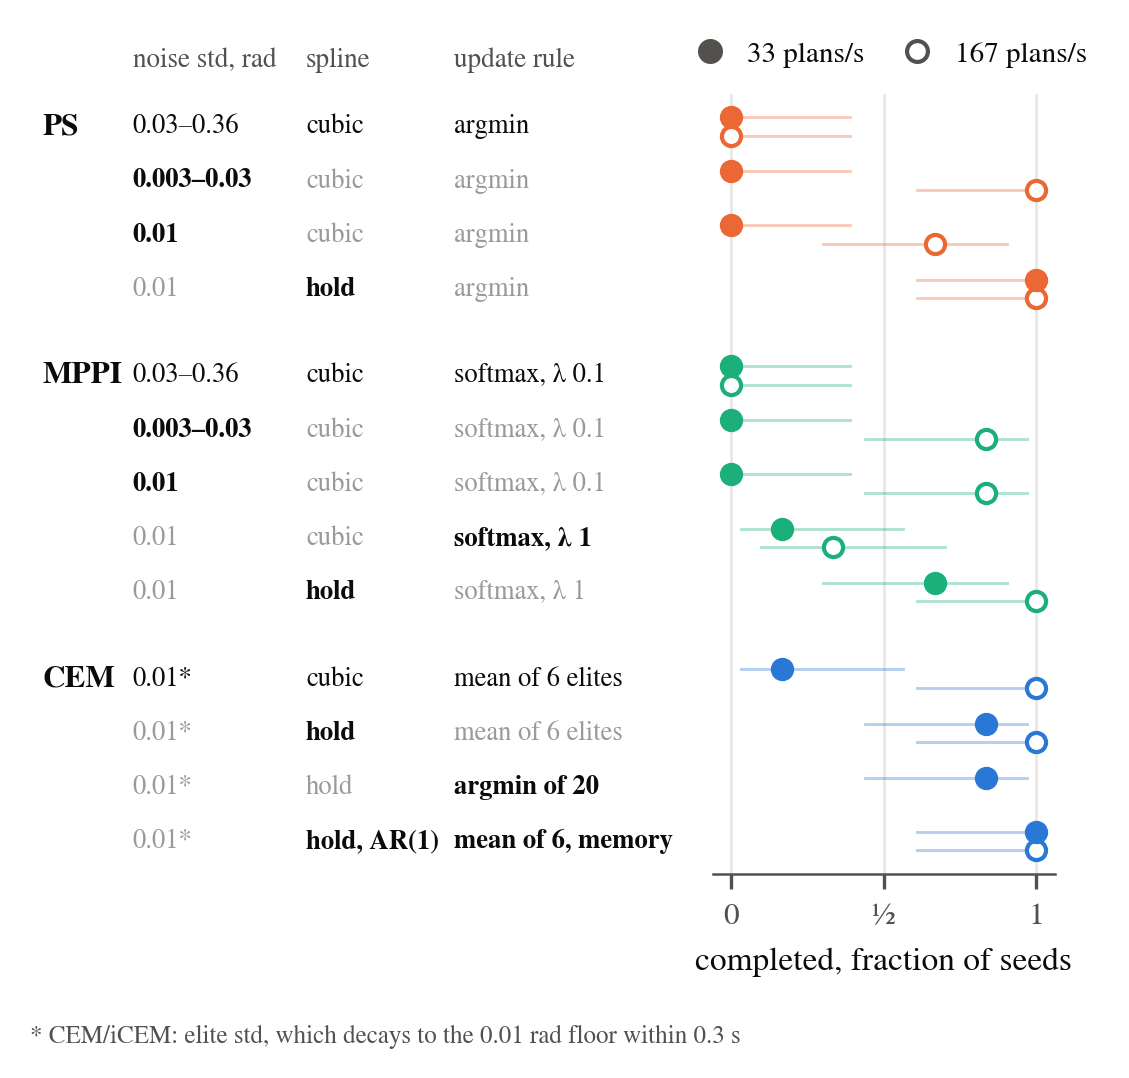
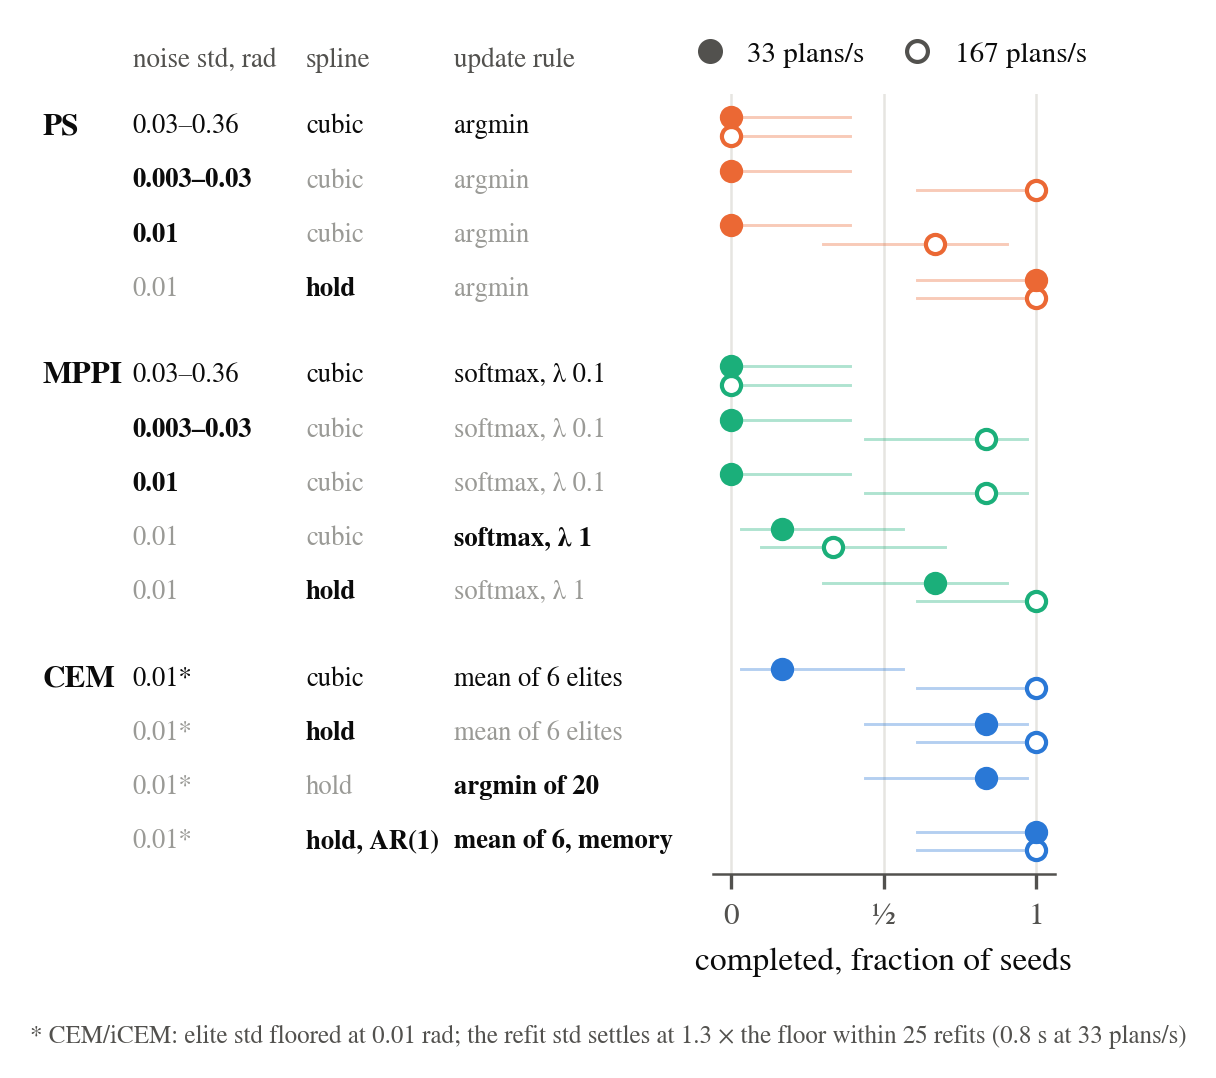
planner ablation: measure CEM's refit elite std against the floor (1.3x, 25 refits), correct the 0.3 s statements
cem_std_mean (pre-floor refit std) sits at 1.25-1.40x std_min for every floor
0.005-0.05 and every rate 33-167 plans/s after a ~25-refit transient; iCEM's
AR(1) cold start puts it at 0.8x so the floor binds everywhere. Page, paper
caption, fig_ladder footnote and HANDOFF 2k updated.

diff --git a/docs/lean/20260911-planner_ablation.html b/docs/lean/20260911-planner_ablation.html
@@ -32,7 +32,7 @@ figure.vid{margin:0}figure.vid video{width:100%;display:block;background:#000;bo
 <li><b>Spline.</b> With a zero-order hold, which CEM and iCEM hard-code, predictive sampling at 0.01 rad completes 6/6 and MPPI 4–6/6. With the cubic spline MJPC's sampling planner ships with, CEM itself drops to 1/6. iCEM completes with either (6/6 and 6/6) because its AR(1) knot noise does what the hold does: it keeps the sampled perturbation of the executed action applied for the first 0.2 s of the rollout, which at 33 plans/s is what selection needs (Figure 4).</li>
 <li><b>Update rule.</b> At the hold and 0.01 rad every rule completes: argmin 6/6, softmax 4/6 (λ = 1, two stalls in the stand-back rungs) to 6/6 (λ = 0.1), elite mean 5/6 (k = 6) to 6/6 (k = 2). The rule matters for sensitivity, not for whether the task can be done.</li>
 </ul>
-<figure class=paper><img src="media/planner_ablation/fig_ladder.png" alt="fig_ladder.png"><figcaption>Figure 1. One row per configuration, from the shipped predictive sampling and MPPI to iCEM; in each row the component that changed from the row above is set in ink. Completion at 33 plans/s (filled) and 167 plans/s (hollow), Wilson 95 % intervals, 6 seeds. σ = 0.01* for CEM and iCEM is the elite standard deviation, which decays to the 0.01 rad floor within 0.3 s.</figcaption></figure>
+<figure class=paper><img src="media/planner_ablation/fig_ladder.png" alt="fig_ladder.png"><figcaption>Figure 1. One row per configuration, from the shipped predictive sampling and MPPI to iCEM; in each row the component that changed from the row above is set in ink. Completion at 33 plans/s (filled) and 167 plans/s (hollow), Wilson 95 % intervals, 6 seeds. σ = 0.01* for CEM and iCEM is the elite standard deviation floored at 0.01 rad; the refit std settles at 1.3 × the floor within 25 refits (0.8 s at 33 plans/s).</figcaption></figure>
 <p>Sensitivity is where CEM separates from the others. At 33 plans/s its admissible range of sampling std (cells at ≥ 4/6) spans the full tested decade, 0.005–0.05 rad, while predictive sampling with the hold and MPPI with the hold are admissible only at 0.01–0.02 rad; at 50 plans/s predictive sampling widens to 0.005–0.03 and MPPI to 0.005–0.01, at 167 plans/s both reach 0.005–0.03 and CEM's range is 0.005–0.03 (0.05 rad is 3/6 there); at 25 plans/s, below the robot's rate, CEM holds 0.01–0.03, predictive sampling 0.01–0.02 and MPPI 0.01–0.02, and 0.005 rad fails for every rule. Any elite count that selects works (k = 1, 2, 6, 10 at 5–6/6); k = 20, the mean of all samples, completes 0/6. Eight rollouts instead of twenty cost CEM three completions (2/6) and predictive sampling four (2/6); MPPI at 8 rollouts is unchanged (4/6).</p>
 <figure class=paper><img src="media/planner_ablation/fig_basin.png" alt="fig_basin.png"><figcaption>Figure 2. Completion over sampling std × plan rate for each update rule at the hold spline, 6 seeds per cell; below, CEM's elite count, MPPI's temperature, and the rollout count at 33 plans/s. Outlined cells are at ≥ 4/6. The cubic-spline predictive sampling, not shown, is admissible in 5 of the 15 cells at 33–167 plans/s and in none at 25.</figcaption></figure>
 <p>The basin widens with the plan rate for every rule and is widest for the elite mean at every rate: over the twenty σ × rate cells (five σ at 25, 33, 50 and 167 plans/s, 6 seeds each), CEM is admissible in 16, predictive sampling with the hold in 12, MPPI with the hold in 10, and predictive sampling with its shipped cubic spline in 5. At 167 plans/s every update rule at 0.01 rad completes 6/6 with the hold and the cubic spline recovers to 4–6/6, so the components that matter at the robot's rate stop mattering at five times the rate; the noise scale matters at every rate (shipped predictive sampling and MPPI 0/6 at 167 plans/s as at 33, and 0.05 rad admissible for no rule but CEM at any rate). Below the robot's rate the floor is close: at 0.01 rad the hold arms complete 1–5/6 at 25 plans/s and 0–1/6 at 16.7, always by the backward fall at the lean onset, and a larger noise floor, which only the elite mean can afford, moves the floor down — CEM at 0.02 rad completes 5/6 at 16.7 plans/s and iCEM at 0.03 rad 4/6 at 10 plans/s (§Plan rate). Uncompensated plan latency up to 100 ms costs nothing at 33 plans/s; 200 ms does.</p>
@@ -70,7 +70,7 @@ figure.vid{margin:0}figure.vid video{width:100%;display:block;background:#000;bo
 
 <h2>The three components</h2>
 <h3>Noise units</h3>
-<p>Predictive sampling and MPPI draw per-knot noise with std <code>sampling_exploration × ½ ctrlrange</code>; at the shipped 0.12 that is 0.03 rad on the wrists and 0.36 rad on the hip pitch (median 0.21 rad across the 27 joints). CEM and iCEM draw with std max(elite std, <code>std_min</code> = 0.01) in radians, and the elite std reaches the floor within 0.3 s (log-variance drift −0.21 per refit at k = 6). The shipped predictive sampling moves the executed targets 70–130 mrad per plan during quiet standing and its plant cost is 600–3500 against 5–9 for every working arm; the robot is on the slab by 10–45 s. Turning <code>sampling_exploration</code> down to 0.01 (0.003–0.03 rad per joint, still the range-scaled convention) does not rescue either planner at 33 plans/s (0/6 and 0/6).</p>
+<p>Predictive sampling and MPPI draw per-knot noise with std <code>sampling_exploration × ½ ctrlrange</code>; at the shipped 0.12 that is 0.03 rad on the wrists and 0.36 rad on the hip pitch (median 0.21 rad across the 27 joints). CEM and iCEM draw with std max(elite std, <code>std_min</code> = 0.01) in radians. The elite std is refit every plan from the 6 elites, so it is adaptive in principle; measured before the floor is applied (the bench's <code>cem_std_mean</code> column, every plan of every run), it falls from the 0.12 initial value to under twice the floor within about 25 refits (0.77 s at 33 plans/s, 0.15 s at 167) and then sits at 1.3 × the floor for the rest of the run: median 1.34 ×, p99 1.8 ×, maximum over 40 s 2.0 ×, with no rise at lean onset, release or stand-back (2 s bin means 0.012–0.015 rad throughout). The ratio is the same at every floor (1.40, 1.34, 1.29, 1.28, 1.25 × for <code>std_min</code> 0.005, 0.01, 0.02, 0.03, 0.05) and every plan rate (1.32–1.34 × at 33–167 plans/s). Six unselected draws passed through the same floor would settle at 1.68 × (simulated), so cost selection tightens the elites by about 20 % and the floor sets the rest. The σ axis for CEM in Figures 2 and 3 is therefore <code>std_min</code>, and the sampled σ is 1.3 × the label. iCEM's AR(1) noise under-fills the early knots (0.71, 0.87, 0.94 σ at α = 0.7), its refit std sits at 0.8 × the floor, and the floor binds on every parameter; with white noise (α = 0) it sits at 1.22 × like CEM. With k = 20 (no selection) the refit std wanders to 1.9 × the floor and above 2 × on 47 % of plans, and the arm completes 0/6. The shipped predictive sampling moves the executed targets 70–130 mrad per plan during quiet standing and its plant cost is 600–3500 against 5–9 for every working arm; the robot is on the slab by 10–45 s. Turning <code>sampling_exploration</code> down to 0.01 (0.003–0.03 rad per joint, still the range-scaled convention) does not rescue either planner at 33 plans/s (0/6 and 0/6).</p>
 <div class=scroll><table>
 <caption>Table 2. From the shipped predictive sampling and MPPI to their working versions, 33 plans/s, 6 seeds. raw = std in radians; scaled01 = the shipped convention with exploration 0.01; zero/cubic = spline; l = MPPI temperature.</caption>
 <tr><th>arm</th><th>planner and overrides</th><th>n</th><th>completed</th><th>fell</th><th>collapsed</th><th>stalled</th><th>furthest rung, per seed</th><th>t<sub>complete</sub> median, s</th><th>stand step, mrad / plan</th><th>stand cost</th><th>peak brace, N</th><th>min reach err, mm</th></tr>

diff --git a/studies/planner_ablation/page_body.html b/studies/planner_ablation/page_body.html
@@ -8,7 +8,7 @@
 <li><b>Spline.</b> With a zero-order hold, which CEM and iCEM hard-code, predictive sampling at 0.01 rad completes 6/6 and MPPI 4–6/6. With the cubic spline MJPC's sampling planner ships with, CEM itself drops to 1/6. iCEM completes with either (6/6 and 6/6) because its AR(1) knot noise does what the hold does: it keeps the sampled perturbation of the executed action applied for the first 0.2 s of the rollout, which at 33 plans/s is what selection needs (Figure 4).</li>
 <li><b>Update rule.</b> At the hold and 0.01 rad every rule completes: argmin 6/6, softmax 4/6 (λ = 1, two stalls in the stand-back rungs) to 6/6 (λ = 0.1), elite mean 5/6 (k = 6) to 6/6 (k = 2). The rule matters for sensitivity, not for whether the task can be done.</li>
 </ul>
-{{PFIG:fig_ladder.png|Figure 1. One row per configuration, from the shipped predictive sampling and MPPI to iCEM; in each row the component that changed from the row above is set in ink. Completion at 33 plans/s (filled) and 167 plans/s (hollow), Wilson 95 % intervals, 6 seeds. σ = 0.01* for CEM and iCEM is the elite standard deviation, which decays to the 0.01 rad floor within 0.3 s.}}
+{{PFIG:fig_ladder.png|Figure 1. One row per configuration, from the shipped predictive sampling and MPPI to iCEM; in each row the component that changed from the row above is set in ink. Completion at 33 plans/s (filled) and 167 plans/s (hollow), Wilson 95 % intervals, 6 seeds. σ = 0.01* for CEM and iCEM is the elite standard deviation floored at 0.01 rad; the refit std settles at 1.3 × the floor within 25 refits (0.8 s at 33 plans/s).}}
 <p>Sensitivity is where CEM separates from the others. At 33 plans/s its admissible range of sampling std (cells at ≥ 4/6) spans the full tested decade, 0.005–0.05 rad, while predictive sampling with the hold and MPPI with the hold are admissible only at 0.01–0.02 rad; at 50 plans/s predictive sampling widens to 0.005–0.03 and MPPI to 0.005–0.01, at 167 plans/s both reach 0.005–0.03 and CEM's range is 0.005–0.03 (0.05 rad is 3/6 there); at 25 plans/s, below the robot's rate, CEM holds 0.01–0.03, predictive sampling 0.01–0.02 and MPPI 0.01–0.02, and 0.005 rad fails for every rule. Any elite count that selects works (k = 1, 2, 6, 10 at 5–6/6); k = 20, the mean of all samples, completes 0/6. Eight rollouts instead of twenty cost CEM three completions (2/6) and predictive sampling four (2/6); MPPI at 8 rollouts is unchanged (4/6).</p>
 {{PFIG:fig_basin.png|Figure 2. Completion over sampling std × plan rate for each update rule at the hold spline, 6 seeds per cell; below, CEM's elite count, MPPI's temperature, and the rollout count at 33 plans/s. Outlined cells are at ≥ 4/6. The cubic-spline predictive sampling, not shown, is admissible in 5 of the 15 cells at 33–167 plans/s and in none at 25.}}
 <p>The basin widens with the plan rate for every rule and is widest for the elite mean at every rate: over the twenty σ × rate cells (five σ at 25, 33, 50 and 167 plans/s, 6 seeds each), CEM is admissible in 16, predictive sampling with the hold in 12, MPPI with the hold in 10, and predictive sampling with its shipped cubic spline in 5. At 167 plans/s every update rule at 0.01 rad completes 6/6 with the hold and the cubic spline recovers to 4–6/6, so the components that matter at the robot's rate stop mattering at five times the rate; the noise scale matters at every rate (shipped predictive sampling and MPPI 0/6 at 167 plans/s as at 33, and 0.05 rad admissible for no rule but CEM at any rate). Below the robot's rate the floor is close: at 0.01 rad the hold arms complete 1–5/6 at 25 plans/s and 0–1/6 at 16.7, always by the backward fall at the lean onset, and a larger noise floor, which only the elite mean can afford, moves the floor down — CEM at 0.02 rad completes 5/6 at 16.7 plans/s and iCEM at 0.03 rad 4/6 at 10 plans/s (§Plan rate). Uncompensated plan latency up to 100 ms costs nothing at 33 plans/s; 200 ms does.</p>
@@ -46,7 +46,7 @@
 
 <h2>The three components</h2>
 <h3>Noise units</h3>
-<p>Predictive sampling and MPPI draw per-knot noise with std <code>sampling_exploration × ½ ctrlrange</code>; at the shipped 0.12 that is 0.03 rad on the wrists and 0.36 rad on the hip pitch (median 0.21 rad across the 27 joints). CEM and iCEM draw with std max(elite std, <code>std_min</code> = 0.01) in radians, and the elite std reaches the floor within 0.3 s (log-variance drift −0.21 per refit at k = 6). The shipped predictive sampling moves the executed targets 70–130 mrad per plan during quiet standing and its plant cost is 600–3500 against 5–9 for every working arm; the robot is on the slab by 10–45 s. Turning <code>sampling_exploration</code> down to 0.01 (0.003–0.03 rad per joint, still the range-scaled convention) does not rescue either planner at 33 plans/s (0/6 and 0/6).</p>
+<p>Predictive sampling and MPPI draw per-knot noise with std <code>sampling_exploration × ½ ctrlrange</code>; at the shipped 0.12 that is 0.03 rad on the wrists and 0.36 rad on the hip pitch (median 0.21 rad across the 27 joints). CEM and iCEM draw with std max(elite std, <code>std_min</code> = 0.01) in radians. The elite std is refit every plan from the 6 elites, so it is adaptive in principle; measured before the floor is applied (the bench's <code>cem_std_mean</code> column, every plan of every run), it falls from the 0.12 initial value to under twice the floor within about 25 refits (0.77 s at 33 plans/s, 0.15 s at 167) and then sits at 1.3 × the floor for the rest of the run: median 1.34 ×, p99 1.8 ×, maximum over 40 s 2.0 ×, with no rise at lean onset, release or stand-back (2 s bin means 0.012–0.015 rad throughout). The ratio is the same at every floor (1.40, 1.34, 1.29, 1.28, 1.25 × for <code>std_min</code> 0.005, 0.01, 0.02, 0.03, 0.05) and every plan rate (1.32–1.34 × at 33–167 plans/s). Six unselected draws passed through the same floor would settle at 1.68 × (simulated), so cost selection tightens the elites by about 20 % and the floor sets the rest. The σ axis for CEM in Figures 2 and 3 is therefore <code>std_min</code>, and the sampled σ is 1.3 × the label. iCEM's AR(1) noise under-fills the early knots (0.71, 0.87, 0.94 σ at α = 0.7), its refit std sits at 0.8 × the floor, and the floor binds on every parameter; with white noise (α = 0) it sits at 1.22 × like CEM. With k = 20 (no selection) the refit std wanders to 1.9 × the floor and above 2 × on 47 % of plans, and the arm completes 0/6. The shipped predictive sampling moves the executed targets 70–130 mrad per plan during quiet standing and its plant cost is 600–3500 against 5–9 for every working arm; the robot is on the slab by 10–45 s. Turning <code>sampling_exploration</code> down to 0.01 (0.003–0.03 rad per joint, still the range-scaled convention) does not rescue either planner at 33 plans/s (0/6 and 0/6).</p>
 {{TABLE:ps,ps_scaled01_cubic,ps_raw01_cubic,ps_raw01_zero,mppi,mppi_scaled01_cubic,mppi_raw01_cubic_l0.1,mppi_raw01_cubic_l1,mppi_raw01_zero_l1|Table 2. From the shipped predictive sampling and MPPI to their working versions, 33 plans/s, 6 seeds. raw = std in radians; scaled01 = the shipped convention with exploration 0.01; zero/cubic = spline; l = MPPI temperature.}}
 
 <h3>Spline</h3>

diff --git a/paper/planner_ablation.tex b/paper/planner_ablation.tex
@@ -31,8 +31,10 @@ Each row is one planner configuration; in each row the component that changed
 from the row above is set in black. Markers show the fraction of six seeds that
 completed the lean--reach--recover ladder in simulation at the robot's 33
 plans/s (filled) and at 167 plans/s (hollow), with Wilson 95\% intervals.
-$0.01^*$: CEM and iCEM sample with the elite standard deviation, which reaches
-the $0.01$\,rad floor within $0.3$\,s.}
+$0.01^*$: CEM and iCEM sample with the elite standard deviation floored at
+$0.01$\,rad; the refit standard deviation reaches twice the floor within
+25 refits ($0.8$\,s at 33 plans/s) and then holds at $1.3\times$ the floor
+for the rest of the run (median $1.34\times$, maximum $2.0\times$ over 40\,s).}
 \label{fig:planner_ladder}
 \end{figure}
 

diff --git a/studies/planner_ablation/paper_figs.py b/studies/planner_ablation/paper_figs.py
@@ -565,7 +565,7 @@ def fig_ladder(sums, out):
     ax.plot([], [], marker="o", ms=5, color=C_INK2, lw=0, label="33 plans/s")
     ax.plot([], [], marker="o", ms=5, mfc="white", mec=C_INK2, lw=0, label="167 plans/s")
     ax.legend(loc="lower center", bbox_to_anchor=(0.5, 1.0), ncol=2, handletextpad=0.3, columnspacing=0.8)
-    fig.text(0.0, 0.0, "* CEM/iCEM: elite std, which decays to the 0.01 rad floor within 0.3 s",
+    fig.text(0.0, 0.0, "* CEM/iCEM: elite std floored at 0.01 rad; the refit std settles at 1.3 × the floor within 25 refits (0.8 s at 33 plans/s)",
              fontsize=6, color=C_INK2, va="bottom")
     fig.savefig(out + ".pdf", bbox_inches="tight"); fig.savefig(out + ".png", bbox_inches="tight")
     plt.close(fig)

diff --git a/studies/planner_ablation/arms.py b/studies/planner_ablation/arms.py
@@ -12,8 +12,8 @@ Shipped numerics the arms inherit unless overridden (Lean_H12_Magpie.xml):
 Noise conventions differ by family and that is the confound the equalized arms
 remove: PS/MPPI draw N(0, (exploration x half-ctrlrange)^2) per knot per
 actuator (0.12 x 0.6-1.8 rad = 0.07-0.21 rad); CEM/iCEM draw N(0, max(elite
-std, std_min)^2) in raw ctrl units, and the elite std collapses to the 0.01
-floor within ~1 s (log-variance drifts -0.21 per refit at n_elite=6). So the
+std, std_min)^2) in raw ctrl units, and the refit elite std settles at 1.3x the
+0.01 floor within ~25 refits (0.8 s at 33 plans/s; measured, cem_std_mean). So the
 shipped iCEM plans at sigma = 0.01 rad and the shipped PS at 7-21x that.
 """
 

diff --git a/studies/planner_ablation/HANDOFF.md b/studies/planner_ablation/HANDOFF.md
@@ -472,3 +472,37 @@ Palette: update rule → colour (elite mean #2a78d6, argmin #eb6834, softmax
   (the report page), `queue*.sh`, `campaign_rate.sh`, `campaign2.sh`.
 - Memory files: `planner-noise-convention`, `lean-bench-plan-rate`,
   `mjpc-sweep-cpu-budget` (double-launch and pkill traps).
+
+### 2k. Is CEM's σ adaptive on this task? (measured 2026-09-13 15:20, `cem_std_mean`)
+Question from the user: CEM refits σ from the elites every plan, so what does a
+"σ axis" for CEM mean? Answer from the bench's per-plan `cem_std_mean` column
+(refit elite std, mean over the 81 knot×joint parameters, logged BEFORE the
+`std_min` floor is applied), 33 plans/s, `runs/gains_spp15`:
+
+| arm | floor | refit std after 2 s, median | p99 | max over run | ratio to floor |
+|---|---|---|---|---|---|
+| cem_stdmin005 | 0.005 | 0.0070 | 0.0093 | 0.0108 | 1.40 |
+| cem | 0.010 | 0.0134 | 0.0178 | 0.0204 | 1.34 (12 runs) |
+| cem_stdmin02 | 0.020 | 0.0259 | 0.0327 | 0.0358 | 1.29 |
+| cem_stdmin03 | 0.030 | 0.0383 | 0.0487 | 0.0569 | 1.28 |
+| cem_stdmin05 | 0.050 | 0.0627 | 0.0773 | 0.0852 | 1.25 |
+| cem_ne2 / ne10 / ne20 | 0.010 | 0.0105 / 0.0141 / 0.0190 | | | 1.05 / 1.41 / 1.90 (ne20: 47 % of plans > 2×) |
+| icem / icem_cubic / icem_keep0 | 0.010 | 0.0079 / 0.0078 / 0.0082 | | 0.0093 | 0.79 (floor binds everywhere) |
+| icem_a0 (white noise) | 0.010 | 0.0122 | | | 1.22 |
+
+- Transient: from the 0.12 initial std to < 2× floor in 24–27 refits at every
+  rate (0.77 s at 33/s, 0.54 at 50, 0.28 at 83, 0.15 at 167). Steady ratio 1.32–1.34
+  at every rate. No rise at rung transitions (2 s bin means 0.012–0.015 rad over 40 s).
+- Null model (6 unselected draws through the same floor, 81 params, simulated):
+  steady 1.68× floor. Measured 1.34× ⇒ selection tightens the elites ~20 % in
+  std; the floor sets the rest. The collapse is a property of a k-of-N sample
+  std with a floor on a locally unimodal cost, not of the task being slow; the
+  task's slowness shows up as "never re-opens" (max 2.0× over 40 s).
+- iCEM's AR(1) α=0.7 cold-start gives knot stds 0.71/0.87/0.94 σ, so its refit
+  std is 0.8× the floor and the effective per-knot σ is 0.71–0.94 × `std_min`.
+- Consequence for the figures: the CEM σ axis in fig_basin/fig_floor2 is
+  `std_min`; the sampled σ is 1.3× the label, same factor at every floor and
+  rate, so the axis is monotone and comparable to PS/MPPI (whose σ is exactly
+  the label) up to that constant. Page §"The three components", paper caption
+  and the fig_ladder footnote now say this (the old "reaches the floor within
+  0.3 s" was the 167 plans/s transient; it is 25 refits, not 0.3 s).
